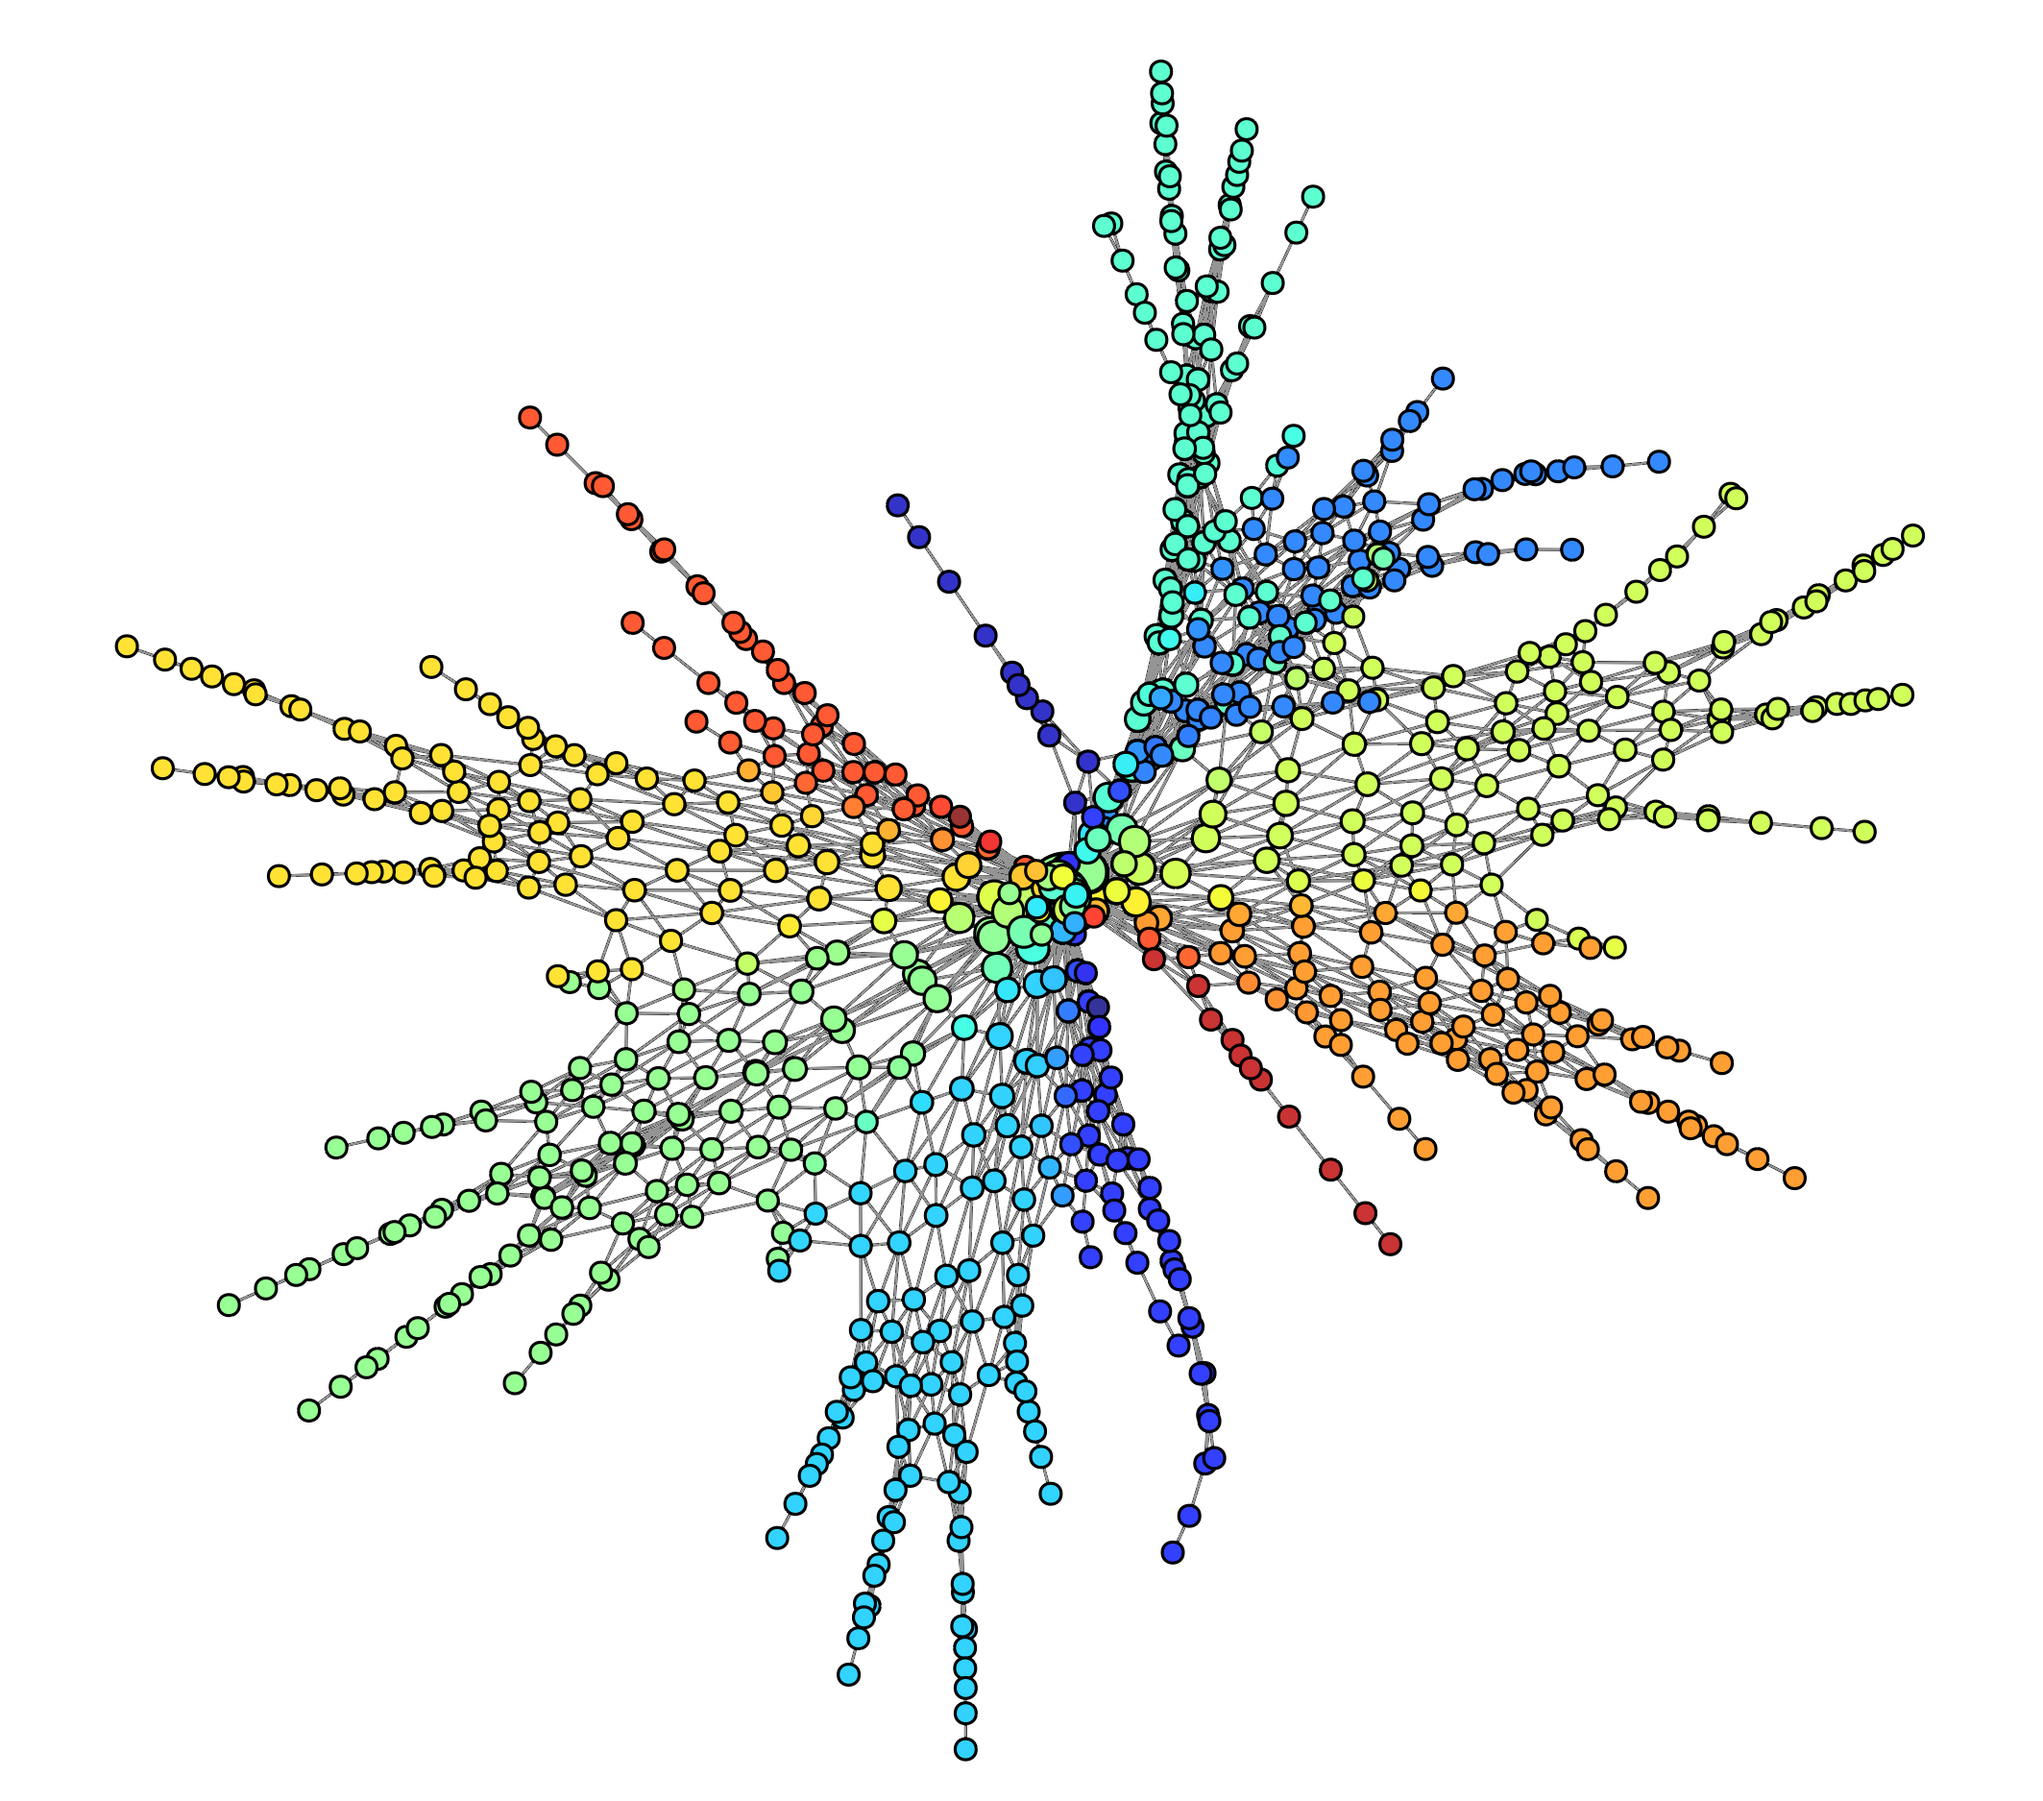
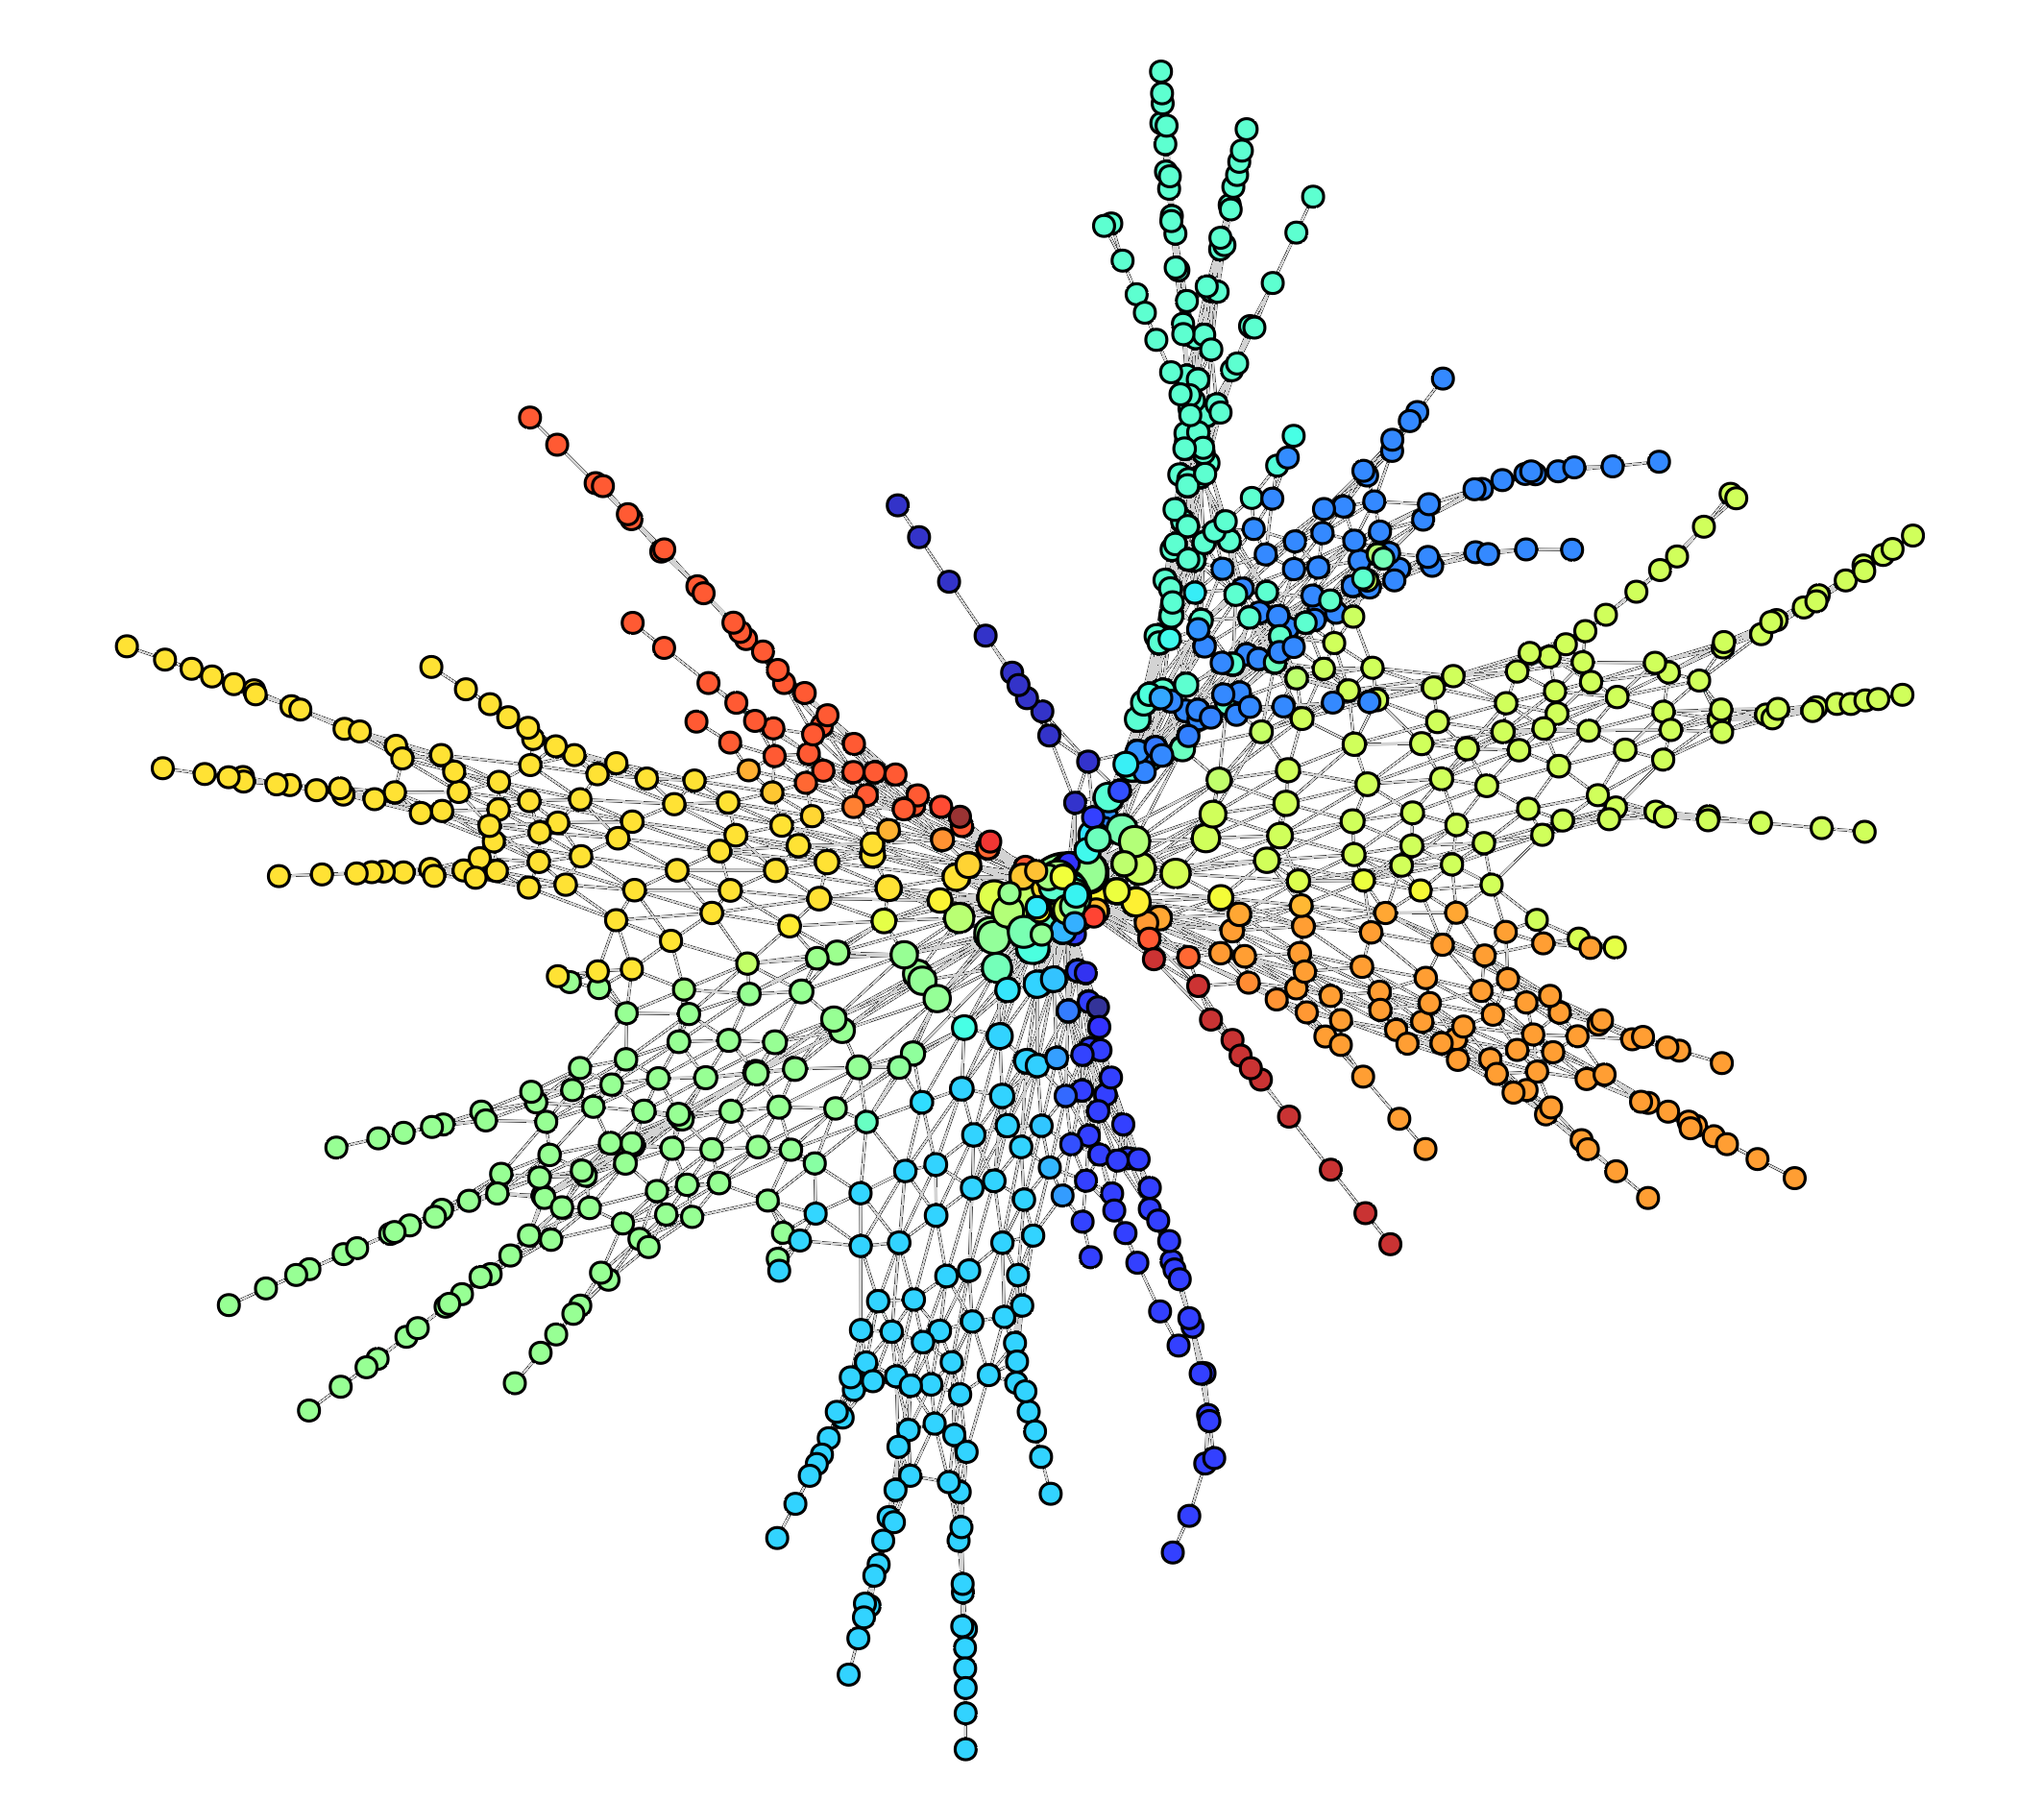
updated images

Changed region(s): [[0.2172, 0.4021, 0.5585, 0.8043], [0.5275, 0.3093, 0.8378, 0.5877], [0.6827, 0.2784, 0.7137, 0.3093]]

diff --git a/README.md b/README.md
@@ -7,7 +7,7 @@ Python version of the BallMapper algorithm described in [arXiv:1901.07410 ](http
 
 <picture>
   <source media="(prefers-color-scheme: dark)" srcset="img/jones_17_bm_white.png">
-  <img alt="Shows an illustrated sun in light color mode and a moon with stars in dark color mode." src="img/jones_17_bm.png">
+  <img alt="Jones 17" src="img/jones_17_bm.png">
 </picture>
 
 ### Install the package 📦   
